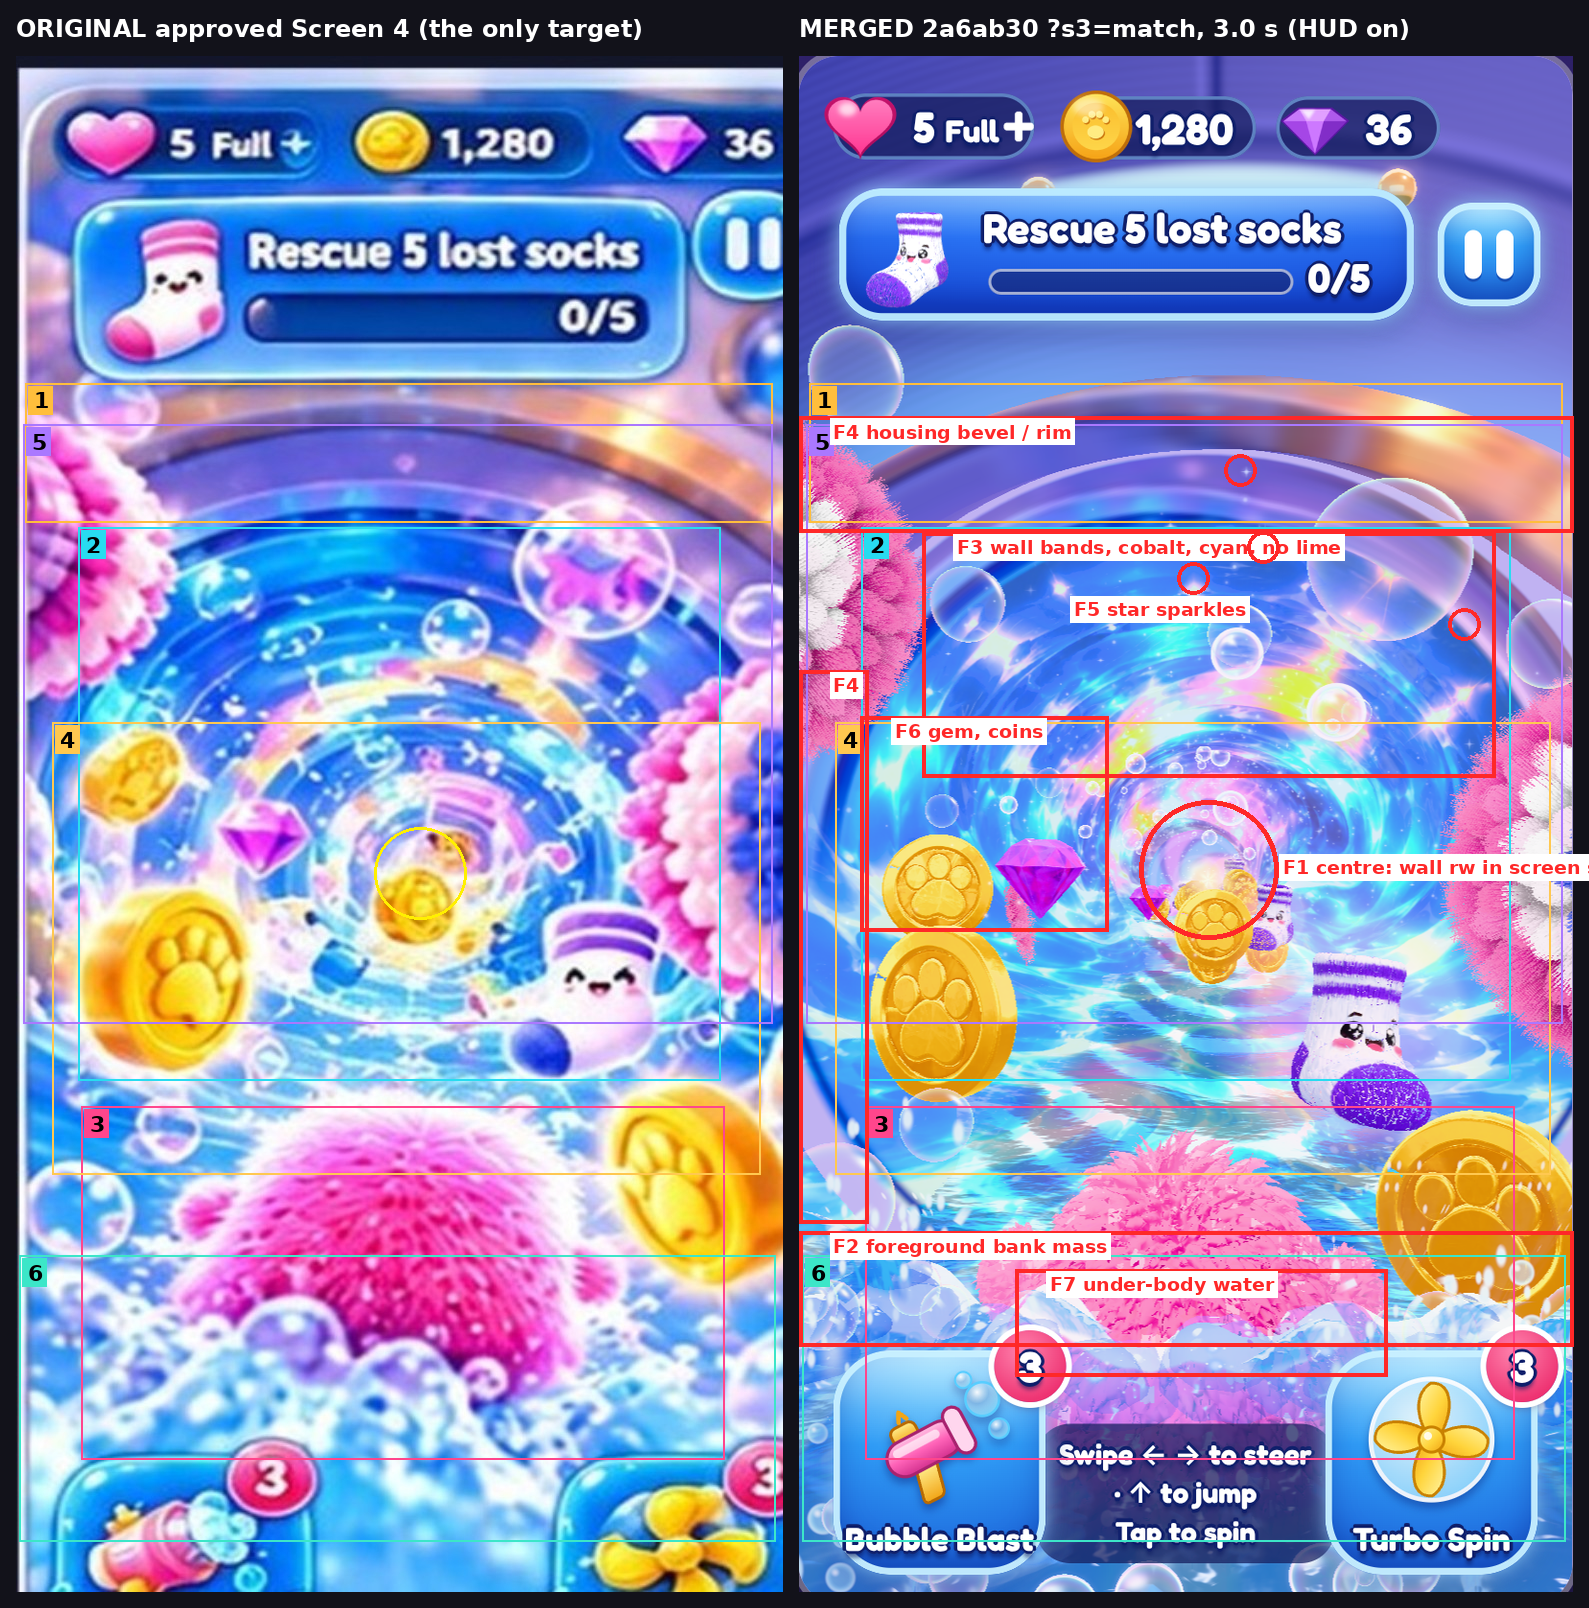
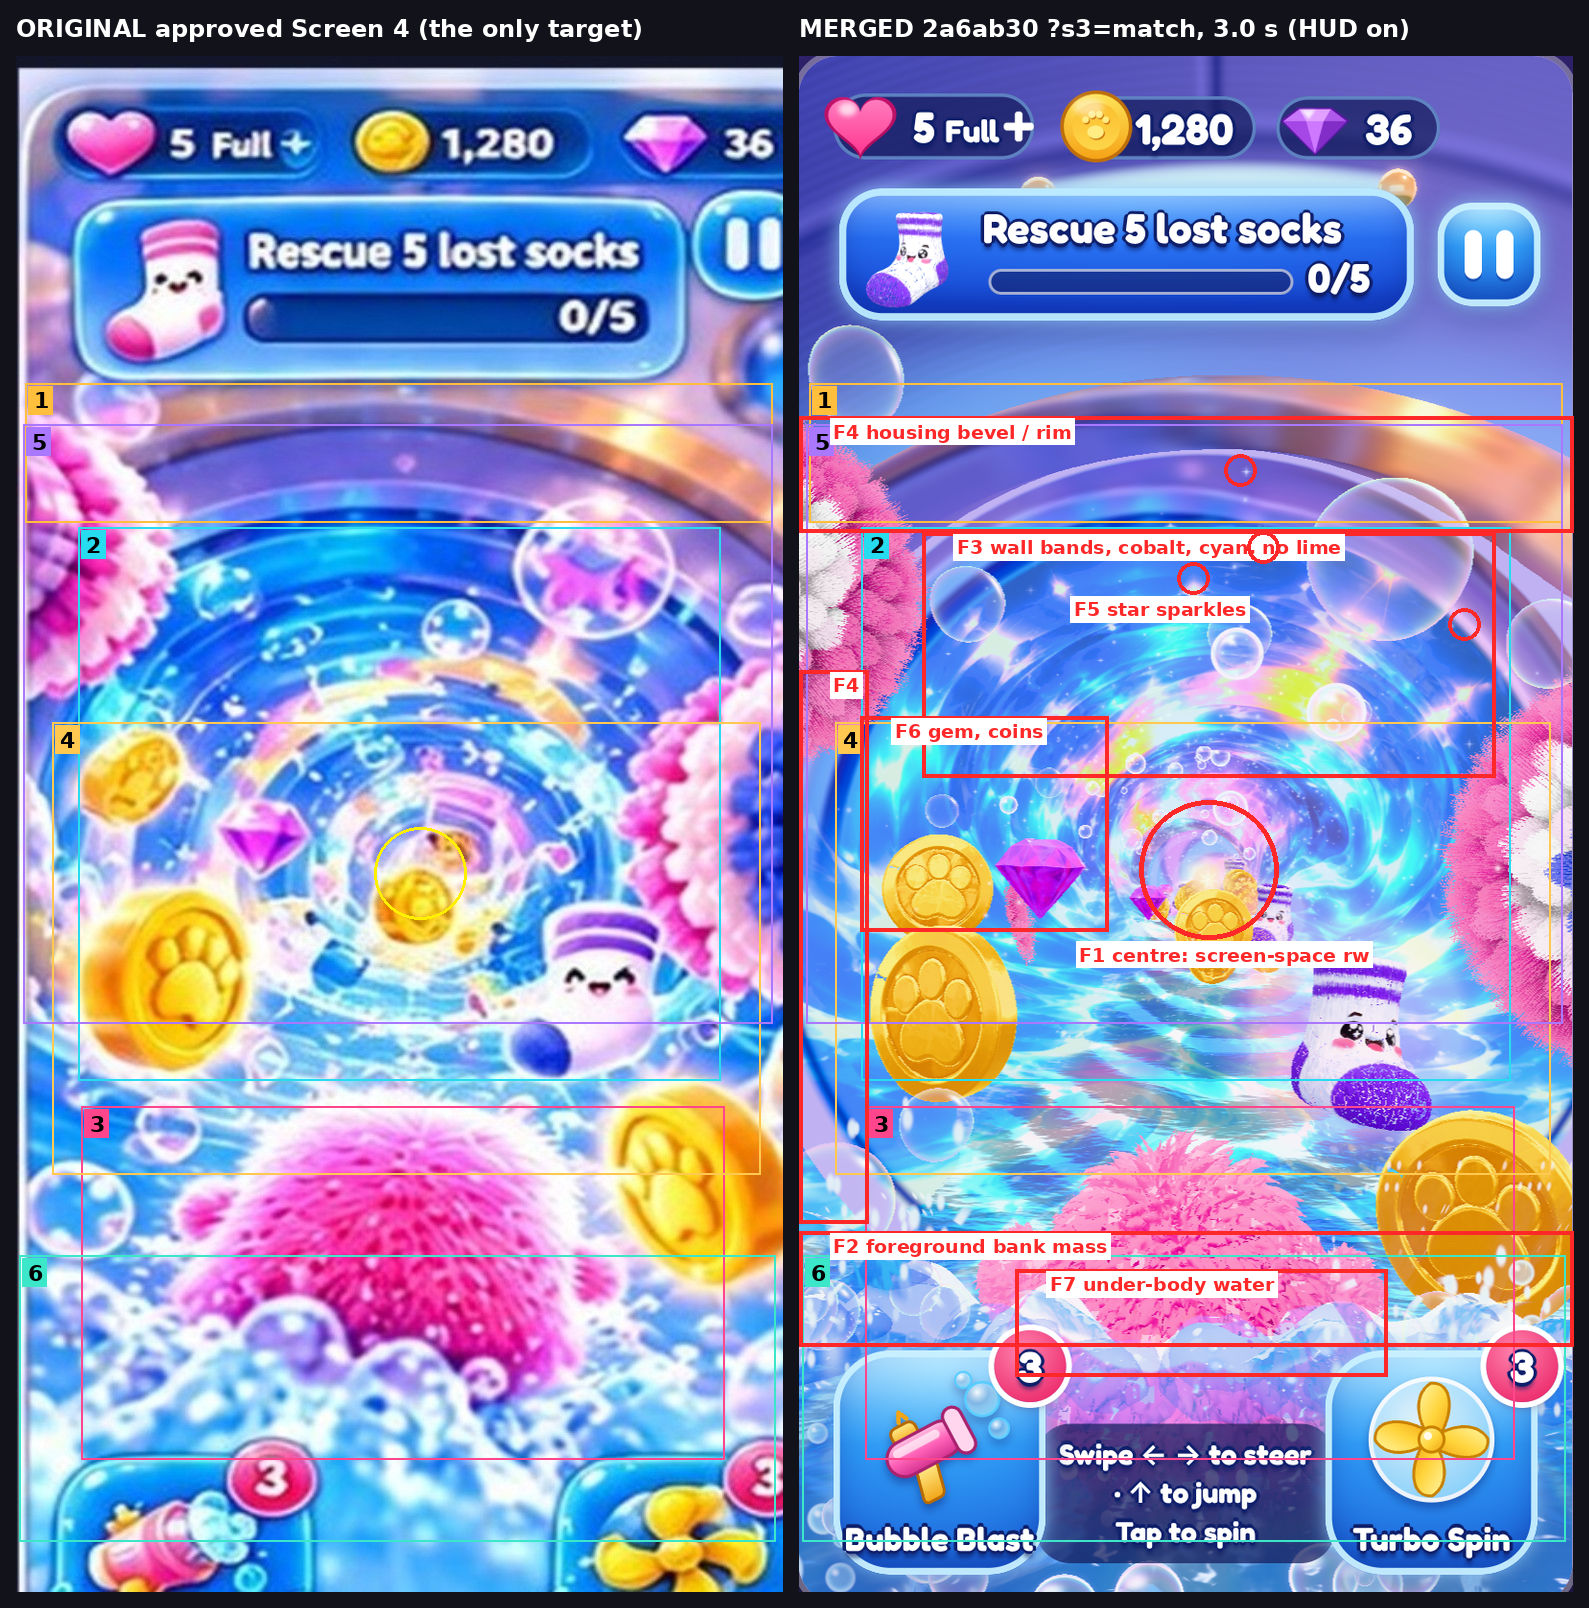
Round 9 Art Director quality gate: six areas scored at 3.0 s on the merged build, ranked fixes, the centre's lilac confirmed as heroWalls' track-frame screen radius
Scores (visual judgement, numbers in measured.txt): housing 7 partly, deep blue tunnel 5 partly, light and reflections 4 far, character immersion 6 partly, foreground waves 4 far, objects 7 partly. Report: Previews/WebDemo/screen4_round9_match/05_art_director_gate/README.md

Claude-Session: https://claude.ai/code/session_01AvQv6UpGbB7nGoyUu9PrFW

Changed region(s): [[0.6784, 0.5286, 1.0, 0.6219]]

diff --git a/Previews/WebDemo/screen4_round9_match/05_art_director_gate/scripts/annotate_gate.py b/Previews/WebDemo/screen4_round9_match/05_art_director_gate/scripts/annotate_gate.py
@@ -8,7 +8,7 @@ F=lambda n: ImageFont.truetype('/usr/share/fonts/truetype/dejavu/DejaVuSans-Bold
 a=Image.open(A).convert('RGB'); g=Image.open(G).convert('RGB'); g=g.resize((round(g.size[0]*1536/g.size[1]),1536),Image.LANCZOS)
 ZONES=[('1',(0.013,0.213,0.986,0.304),(255,190,60)),('2',(0.081,0.307,0.919,0.667),(40,220,240)),('3',(0.086,0.684,0.924,0.914),(255,70,140)),
        ('4',(0.047,0.434,0.971,0.728),(255,200,80)),('5',(0.01,0.24,0.986,0.63),(170,120,255)),('6',(0.005,0.781,0.99,0.967),(60,230,200))]
-FIX=[('F1 centre: wall rw in screen space',('c',0.53,0.53,0.09)),('F2 foreground bank mass',('b',0.0,0.765,1.0,0.84)),
+FIX=[('F1 centre: screen-space rw',('c',0.53,0.53,0.09)),('F2 foreground bank mass',('b',0.0,0.765,1.0,0.84)),
      ('F3 wall bands, cobalt, cyan, no lime',('b',0.16,0.31,0.90,0.47)),('F4 housing bevel / rim',('b',0.0,0.235,1.0,0.31)),
      ('F4',('b',0.0,0.40,0.09,0.76)),('F5 star sparkles',('p',[(0.51,0.34),(0.57,0.27),(0.60,0.32),(0.86,0.37)])),
      ('F6 gem, coins',('b',0.08,0.43,0.40,0.57)),('F7 under-body water',('b',0.28,0.79,0.76,0.86))]
@@ -24,7 +24,7 @@ for k,(x0,im) in enumerate(zip(xs,(a,g))):
         for lab,sh in FIX:
             red=(255,40,40)
             if sh[0]=='c':
-                _,cx,cy,r=sh; R=r*w; d.ellipse((x0+cx*w-R,HDR+cy*h-R,x0+cx*w+R,HDR+cy*h+R),outline=red,width=5); tx,ty=x0+cx*w+R+4,HDR+cy*h-14
+                _,cx,cy,r=sh; R=r*w; d.ellipse((x0+cx*w-R,HDR+cy*h-R,x0+cx*w+R,HDR+cy*h+R),outline=red,width=5); tx,ty=x0+cx*w-130,HDR+cy*h+R+4
             elif sh[0]=='b':
                 _,X0,Y0,X1,Y1=sh; d.rectangle((x0+X0*w,HDR+Y0*h,x0+X1*w,HDR+Y1*h),outline=red,width=4); tx,ty=x0+X0*w+34,HDR+Y0*h+4
             else:

diff --git a/Previews/WebDemo/screen4_round9_match/05_art_director_gate/README.md b/Previews/WebDemo/screen4_round9_match/05_art_director_gate/README.md
@@ -1,0 +1,113 @@
+# Round 9, step 5: the Art Director's six-area quality gate on the merged build (5 November 2026)
+
+- **Target:** the ORIGINAL approved Screen 4 only, `Design/ReferencePacks/2026-11-04_Round6_Construction_Guide/01_Original_Approved_Screen_4.jpg` (767 x 1536). Zones: the user's precision kit `10_TARGET_ZONES_ANNOTATED.jpg`.
+- **Judged:** merged `2a6ab30`, `?s3=match`, real seeded gameplay (seed 7, DPR 1.5, HUD on): `../04_merged/match_t3.00.png` (primary), with 2.85 s and 3.10 s as checks. Draw calls 202-209 a frame (`match_info.json`).
+- **Method:** frames resized to 538 x 1076 and sorted into the Art Director's HSV classes (`scripts/common.py`). Positions are fractions of the frame (x/W, y/H). The merged vanishing point is taken as (0.53, 0.53), as in steps 2 and 3, so the numbers compare. Raw output: `measured.txt`. One read-only diagnostic capture was made (`rw_probe/`, `scripts/rw_probe.cjs`). No game file was edited.
+- **No overall similarity percentage is claimed.** The scores are my visual judgement per area; the measured numbers are reported beside them, separately.
+
+Images:
+- `approved_vs_merged_3.00s_gate_annotated.png`: original | merged 3.0 s, both 1536 px tall. The six zones are drawn on both, and the top fixes (F1-F7) are marked in red on the merged frame.
+- `crops_per_area_original_vs_merged_3.00s.jpg`: one row per area, original | merged, cropped at the same frame fractions. The yellow circle marks the centre disc (r < 0.06 W).
+- `objects_zoom_grid_original_vs_merged_3.00s.jpg`: the objects, with a grid every 0.02. Boxes marked "read" below were read off it.
+
+## The six areas at 3.0 s
+
+| area (zone) | score | why (visual) | measured: approved / merged (script, box) | verdict |
+|---|---|---|---|---|
+| **1 housing and framing** (1, 5) | **7** | Placement, rim colour and the opening are close. But the gold rim is a heavy bronze band, and the lilac collar arc reads as a smooth, clean ring. | rim band thickness **0.019 / 0.032 H**; at x 0.95 it spans 0.263-0.282 / 0.252-0.320 (`rim.py`). Rim colour #eea98b / #e8a48d. Zone 1 lavender 45.5 / 41.6% (`zones.py`). Top bevel x .30-.70, y .25-.31: lavender 61.5 / 68.2%, median #6763d8 / #6c69db. Left strip x < .08, y .40-.76: lavender 13.4 / 15.0%, white 21.1 / 6.6% (`strips.py`). | partly (close on layout) |
+| **2 deep blue tunnel** (2) | **5** | The blue body and the swirl are good. But the centre is a lilac-pink nebula where the original has a warm, luminous core with tight rings. The walls are smoother and paler in their darks, with fewer and broader bands. | **centre r < .06: warm 46.7 / 18.5%, lavender 11.1 / 45.2%, median #f1d7db / #dac1f2.** Mid vortex r .08-.20: lavender 12.1 / 19.2%, white 22.3 / 13.7%. Upper wall: deep cobalt 3.9 / 1.2%, electric blue 43.0 / 51.4%, band-scale texture hp5 0.094 / 0.062 (`walls.py`). Bright bands up / left / right 8 / 10 / 7 against 6 / 4 / 7; band contrast 0.184 / 0.167 / 0.201 against 0.126 / 0.242 / 0.175 (`rings.py`). | partly |
+| **3 light and reflections** (2) | **4** | Generic four-point star sparkles show on the walls. The "warm patches" at the upper right read lime-yellow, not peach. The glints are white-lilac rather than ice blue. Cyan streaks are half the original's. The warm core glow is missing. | upper wall cyan (azure) 13.3 / 6.6%, azure median #2fb2f5 / #52d7f7. Small sparkle blobs 0.20 / 0.85% (`walls.py`). Glints (brightest 2%) #cae0ff S 0.27 / #e6e0f9 S 0.14. **Lime (hue 70-100) wall pixels 29 / 783**; peach-pink (hue 0-45) 1901 / 831 (`palette.py`, "other" hue histogram). Centre warm 46.7 / 18.5%. | far |
+| **4 character immersion** (3) | **6** | The waterline height and the violet see-through are right. But the body sits behind a smooth glass-bowl lip with a thin white rim, where the original sinks it into bubbly foam lobes. Under the lip, the fur shows as a pale pink block. | waterline (median lowest pink, x .3-.7) 0.836 / 0.824. Sides at x .30-.34: 0.809-0.822 / 0.800-0.803 (`char.py`, `wl.py`). Under the body (x .33-.67, y .835-.875): violet 36.8 / 40.3%, **texture hp5 0.112 / 0.071**, white 14.2 / 6.6%, pale blue 20.5 / 34.4% (`bank.py`). Contact strip (x .30-.70, y .78-.835): pink 85.1 / 71.8%, white 3.6 / 9.5% (`contact.py`). | partly |
+| **5 foreground waves** (6) | **4** | The original's lower fifth is a massive sculpted bank of glossy white-blue foam lobes and bubbles, rising to about 0.78 in the corners. In the visible merged frame it is a thin lip over flat water with many tiny flecks. (The game's HUD buttons are bigger and sit higher, from 0.835 against about 0.90, so they also hide the bank.) | bank y .80-.875 (HUD masked): white 20.3 / 15.9%, pale blue 26.4 / 31.6%, saturated blue 14.0 / 10.7%, electric blue 12.2 / 8.9%, hp5 0.095 / 0.083, highlights 18.6 / 14.6% (`bank.py`). Left of the body (x < .24, y .70-.835): white 25.0 / 14.1%, **white blobs 13 / 105** (`contact.py`). Zone 6 azure 7.7 / 1.8% (`zones.py`). | far |
+| **6 object size and placement** (4) | **7** | Most objects are within 0.03 H of their places, and both brushes are in their boxes. But the gem is low and big, the upper-left coin stacks onto the big coin like a totem, a second coin, a sock and a small gem crowd the centre coin, and the right coin is too big. | gem 0.271-0.374, 0.489-0.529 / **0.254-0.369, 0.510-0.561: 12% wide, 0.027 H low**. Right coin 0.778-0.996, 0.671-0.800 / 0.746-0.996, 0.689-0.822 (0.218 / 0.250 W). Big left coin 0.085-0.301, 0.544-0.660 / 0.093-0.28, 0.565-0.68 (read) (`objects.py`). Upper-left coin 0.087-0.213, 0.441-0.499 / 0.11-0.245, 0.505-0.565 (read, **0.065 H low**). Sock 0.645-0.84, 0.555-0.665 / 0.635-0.83, 0.583-0.695 (read: right size, 0.025 H low). Left brush 0.011-0.199, 0.233-0.415 / 0.011-0.169, 0.241-0.456; right brush 0.786-0.987, 0.393-0.611 / 0.829-0.987, 0.406-0.648 (`brush.py`). | partly (close for most) |
+
+At 2.85 s and 3.10 s (`measured.txt`) the same faults show:
+- the centre is lavender 46.3% and 46.5%, warm 21.0% and 14.1%;
+- the bank is white 16.0% and 15.4%;
+- at 3.1 s the left brush leaves the frame and the left coin is cut by the edge (0.004-0.217).
+
+## The centre diagnosis: CONFIRMED, with two refinements
+
+Water & VFX's finding is right: the lilac centre is drawn by `heroWalls`, because `matchWall()` (`tunnel_r9_match.js`) takes its colour-map radius from each point's own track frame rather than from where the point appears on screen:
+
+```glsl
+rw = length(cs - uHeroCam.xy) / max(u - uHeroCam.z, 0.25) / uHeroTanW
+```
+
+Evidence:
+
+1. **The probe** (`scripts/rw_probe.cjs`, real camera at 3.0 s): every `heroWalls` vertex was projected and the nearest kept per 1/135 W cell. In each screen ring I compared the shader's `rw` with the true screen radius round the projected vanishing point (0.546, 0.529). `rw/true` is the ratio of the two:
+
+   | screen ring | shader `rw` (median) | distance ahead | rw/true |
+   |---|---|---|---|
+   | r < 0.035 | 0.071 | 37 m | 2.4 |
+   | r 0.035-0.06 | 0.087 | 31 m | 1.7 |
+   | r 0.06-0.09 | 0.099 | | 1.3 |
+   | r 0.09-0.12 and beyond | | | **1.00** |
+
+   - **No wall cell inside r < 0.09 samples the map's core rows (rw < 0.06): 0%.**
+   - The formula is exact on the straight part of the tube and wrong only in the middle.
+2. **Why (refinement 1): the lining is finite.** `heroWalls` ends 38.2 m ahead (tunnel u 3.9-37.2, camera at u -1.0). Its radius is 2.0 m and `uHeroTanW` is 0.7265, so the smallest `rw` the formula can ever give is about 2.0 / 38.2 / 0.7265 = **0.072**. That is outside the 0.06 W centre disc, so the warm core rows can never appear.
+3. **Why (refinement 2): the path bends.** It is straight to 12 m, then pitches up (T.y +0.063 at 16 m), turns (T.x +0.059 at 20 m) and pitches down (T.y -0.102 at 30 m). So the far wall faces the camera across the centre at 26-37 m. The title's "the drum turns" is this bend, not the drum mesh spinning.
+4. **What those rows hold** (`scripts/texrows.py`, `tunnel_colour.png` by `rw`):
+
+   | rows | lavender | pale lilac | warm |
+   |---|---|---|---|
+   | rw 0.06-0.085 | 33% | 39% | 1% |
+   | rw 0.085-0.12 | 20% | 25% | 5% |
+   | the core, rw 0.025-0.035 (#fbe7ec) | 2% | | 43% |
+
+   The peach core tint (`MATCH.walls.core.r` [0.035, 0.085]) is keyed on the same wrong `rw`, so it is about 0-17% on where the centre is drawn. That gives the measured 45% lavender and 18% warm.
+
+**The right fix (Tunnel & Lighting, `matchWall`):**
+- Work out `rw` and `tu` from `gl_FragCoord` round the projected centre of the far tube:
+  - add new `MATCH_UNIFORMS` `uMatchVP` (vec2, drawing-buffer fractions) and `uMatchRes`;
+  - set them each frame in a gated `onBeforeRender` by projecting the axis at about `min(camU + 30, TE - 2)`.
+- Blend the screen value in only where the screen radius is under about 0.14 W (fully under 0.09). The probe shows the ratio is 1.00 outside 0.09, so the matched outer walls do not move.
+- Blend `tu` through unit vectors, to avoid the wrap at ±0.5.
+- Drive the core tint from the corrected `rw`.
+- Water & VFX's floor has the same formula (`tunnel_r9_match_water.js` line 135, inside the `matchFloorApply` GLSL; its `lil` and `fk` terms use it). It must take the same corrected `rw` where the far floor curves up into the centre.
+- After that, the mid vortex will still lean lilac, because the map's own rows at rw 0.06-0.12 are lilac. Regrade that zone in `tools/screen4/derive_ref5_water.py`, or add a gated de-lilac there like the floor's `delilac`.
+- **Targets:**
+  - centre r < .06: warm at least 35%, lavender at most 15%, white about 30-37%, median toward #f1d7db;
+  - mid vortex: lavender at most 13%, white at least 18%;
+  - the `rw_probe` core share in r < 0.06 at least 0.9;
+  - upper-wall shares within ±1 point of now.
+
+**Probe limits:**
+- It is a vertex z-buffer, not rasterised. Only 7 of about 70 cells inside r < 0.035 hold a vertex.
+- The closed-form bound in point 2 does not depend on that.
+
+## Ranked fixes, largest visible difference first
+
+| # | owner | what (code) | measured target at 3.0 s (approved) | check |
+|---|---|---|---|---|
+| **F1** | Tunnel & Lighting (floor part: Water & VFX) | The centre. Screen-space `rw`/`tu` in `matchWall()` as above; core tint on the corrected `rw`; the same in `matchFloorApply`; then de-lilac the map's rw 0.06-0.12 rows. | centre warm ≥35 (46.7), lavender ≤15 (11.1); mid vortex lavender ≤13 (12.1), white ≥18 (22.3) | `walls.py` centre and mid rows; `rw_probe.cjs` core share ≥0.9 |
+| **F2** | Water & VFX | Foreground bank mass. Large lobe clusters at the outer phis (±50 to ±80, radius 0.18-0.24 m, up to the crest) in `MATCH_WATER.splash.lumps`, bubbly white caps (`lobe.cap`, `lobe.foam`); far fewer tiny flecks (`lobe.fleck` 0.72 -> about 0.85, fewer `heroSplash` spray points). | bank white 18-22 (20.3), saturated blue ≥13 (14.0), electric blue ≥11 (12.2), pale ≤27 (26.4), hp5 ≥0.09 (0.095); left of body white ≥20 (25.0), white blobs ≤40 (13; now 105) | `bank.py`, `contact.py`, `zones.py` zone 6 |
+| **F3** | Tunnel & Lighting | Wall depth. A cobalt trough term from the relief map's luminance (`det`) in `matchWall` (new `MATCH.walls.trough` about 0.3, toward the approved deep cobalt #4a64d2); more and narrower bands on the left (only 4 there now: the colour map's left-sector log-r compression in `derive_ref5_water.py`, or the detail period `MATCH.walls.detailSpan`). | upper wall deep cobalt 3-5 (3.9; now 1.2), side walls ≥3 (4.1; now 1.1); hp5 ≥0.085 (0.094); bands ≥7 per sector (8 / 10 / 7); band contrast 0.17-0.20 in every sector | `walls.py`, `rings.py` |
+| **F4** | Tunnel & Lighting | Colour of the light. Pull hue 60-100 (lime) to peach #ffd3a0 / pink #efc9d9, in the Reference 5 grade (`derive_ref5_water.py`) or a gated hue clamp in `matchWall`; cyan streaks from the variation map's streak channel at #2fb2f5 (the azure tone is too light and green now); electric blue down to make room. | lime pixels ≤100 (29; now 783); upper-wall azure ≥11 (13.3); azure median near #2fb2f5; electric blue ≤46 (43.0) | `palette.py`, `walls.py` |
+| **F5** | Tunnel & Lighting | Remove the four-point star sparkles on the walls. First find the source with `hide_probe.cjs`: Reference 5's stars baked into `tunnel_colour.png` (your own step 2 note), the `shimmer` term on `vr.r`, or the `spec` glints. Remove the stars in the derive step (top-hat detection and inpainting), and tint the remaining glints to #cae0ff (`MATCH.walls.glint`). | small sparkle ≤0.3% (0.20; now 0.85); glints saturation ≥0.22 (0.27; now 0.14) | `walls.py` sparkle column; `palette.py` glints |
+| **F6** | Tunnel & Lighting | Housing. A thinner rim: `MATCH.hero.round6.porthole.bezel.inner` 2.39 -> about 2.45 (outer 2.55 kept), or less gold in the rim ramp. Break the smooth collar arc on the left with droplets. **Do not remove lavender:** it is already at the approved level (zone 1 41.6 / 45.5; top bevel 68 / 62; left strip 15 / 13). | rim thickness 0.018-0.022 H (0.019; now 0.032); at x .95, 0.263-0.282; left strip white ≥15 (21.1; now 6.6) | `rim.py`, `strips.py` |
+| **F7** | Tunnel & Lighting | The gem and the centre crowding. `extraGem` up and visual scale about 0.89 (solve with `hero_probe.cjs` `PICKS='[[0.323,0.509,d]]'` at its current distance). Push the far coin line (`coinLines` `[1, 12.0, 3, ...]`), the far sock and `MATCH.farGem` so only the centre coin lies within 0.08 W of the vanishing point. | gem 0.271-0.374, 0.489-0.529; centre coin alone at 0.468-0.571, 0.529-0.579 | `objects.py`, the grid zoom |
+| **F8** | Water & VFX | The water under and round the body. Break the glass-bowl lip into bubbly foam lobes across the front (`matchSwellGLSL`, `MATCH_WATER.look.crest`, `top`, `clear`, and the front `lumps` at phi -7 to 19); cut the pale blue under the lip. | under the body hp5 ≥0.10 (0.112), white 12-16 (14.2), pale ≤24 (20.5), violet ≥30 kept (36.8); contact strip pink ≥80 (85.1) | `bank.py`, `contact.py` |
+| **F9** | Water & VFX | The floor ahead. Re-measure after F1, then raise `MATCH_WATER.floor.delilac` and the white caustic and glint share. | floor ahead lavender ≤5 with the sock excluded (3.0), white 25-30 (30.5), median near #aed7f3 (now #98bff1) | `walls.py` floor row |
+| **F10** | Tunnel & Lighting | The right coin and the sock. Right coin (`coinLines` `[2.243, 2.2, ...]`) about 0.3 m further, or 0.87 visual scale, and 0.02 H higher. `firstSock` about +0.1 m up. The sock's purple glitter toe against the approved's navy-blue toe is optional. The upper-left coin is 0.065 H low and touches the big coin, but the jump reach bounds it: leave it unless a reachable place exists. | right coin 0.778-0.996, 0.671-0.800 (0.218 W); sock 0.645-0.84, 0.555-0.665 | `objects.py`, the grid zoom |
+
+## The lead's specific questions
+
+- **Less lavender round the opening:** REJECTED as the lever. The measured lavender round the opening is already at or under the approved level (see F6). The opening reads less immersive because:
+  - the rim is 1.7 times too thick;
+  - the left collar arc is a smooth, clean lilac ring, where the original breaks its edges with white droplets and bubbles;
+  - the centre lacks its luminous pull (F1).
+- **Deep cobalt contrast:** short. The upper wall has 1.2% deep cobalt against 3.9%, the side walls 1.1% against 4.1%. Band contrast is too low at the top and right and too high (0.242, with only 4 bands) on the left. See F3.
+- **The sock:** the right size (about 0.195 W x 0.11 H against 0.19 x 0.11), 0.025 H low, upright with a purple glitter toe. **The lower-right coin:** 15% too wide and 0.02 H low. See F10.
+- **The gem:** confirmed, 12% too wide and 0.027 H low. See F7.
+
+## Files
+
+- `README.md` (this file), `measured.txt`, `approved_vs_merged_3.00s_gate_annotated.png`, `crops_per_area_original_vs_merged_3.00s.jpg`, `objects_zoom_grid_original_vs_merged_3.00s.jpg`
+- `rw_probe/rw_probe_t3.00.json` and `.png`: the diagnostic capture.
+- `scripts/`:
+  - from step 1: `common.py` (now pointed at the merged frames), `walls.py`, `rings.py`, `rim.py`, `bank.py`, `contact.py`, `char.py`, `wl.py`, `palette.py`, `objects.py`, `brush.py`;
+  - new: `housing.py`, `zones.py`, `strips.py`, `sock.py`, `texrows.py`, `rw_probe.cjs`, `sheets.py`, `annotate_gate.py`.
+  - `sock.py`'s box hit its search limits, so the sock was read off the grid zoom instead.
